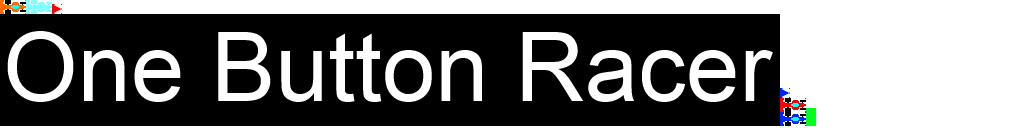
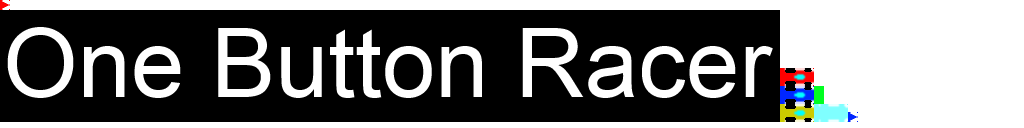
WIP: Added wakelock...
Added a wakelock to keep the screen on when running on Android, plus more
tweaks of the cars' appearances than you can shake a stick at, but mostly
because the last update made them look like synchronized goldfish.

diff --git a/ld28-android/src/ld28/LD28Activity.java b/ld28-android/src/ld28/LD28Activity.java
@@ -15,6 +15,7 @@ public class LD28Activity extends AndroidApplication {
         
         AndroidApplicationConfiguration cfg = new AndroidApplicationConfiguration();
         cfg.useGL20 = true;
+        cfg.useWakelock = true;
 
 		// To start an Android game just tell the kernel about your app so that it can switch between your game's
 		// states, then start it all through initialize() just as you would any other LibGDX Android game.
